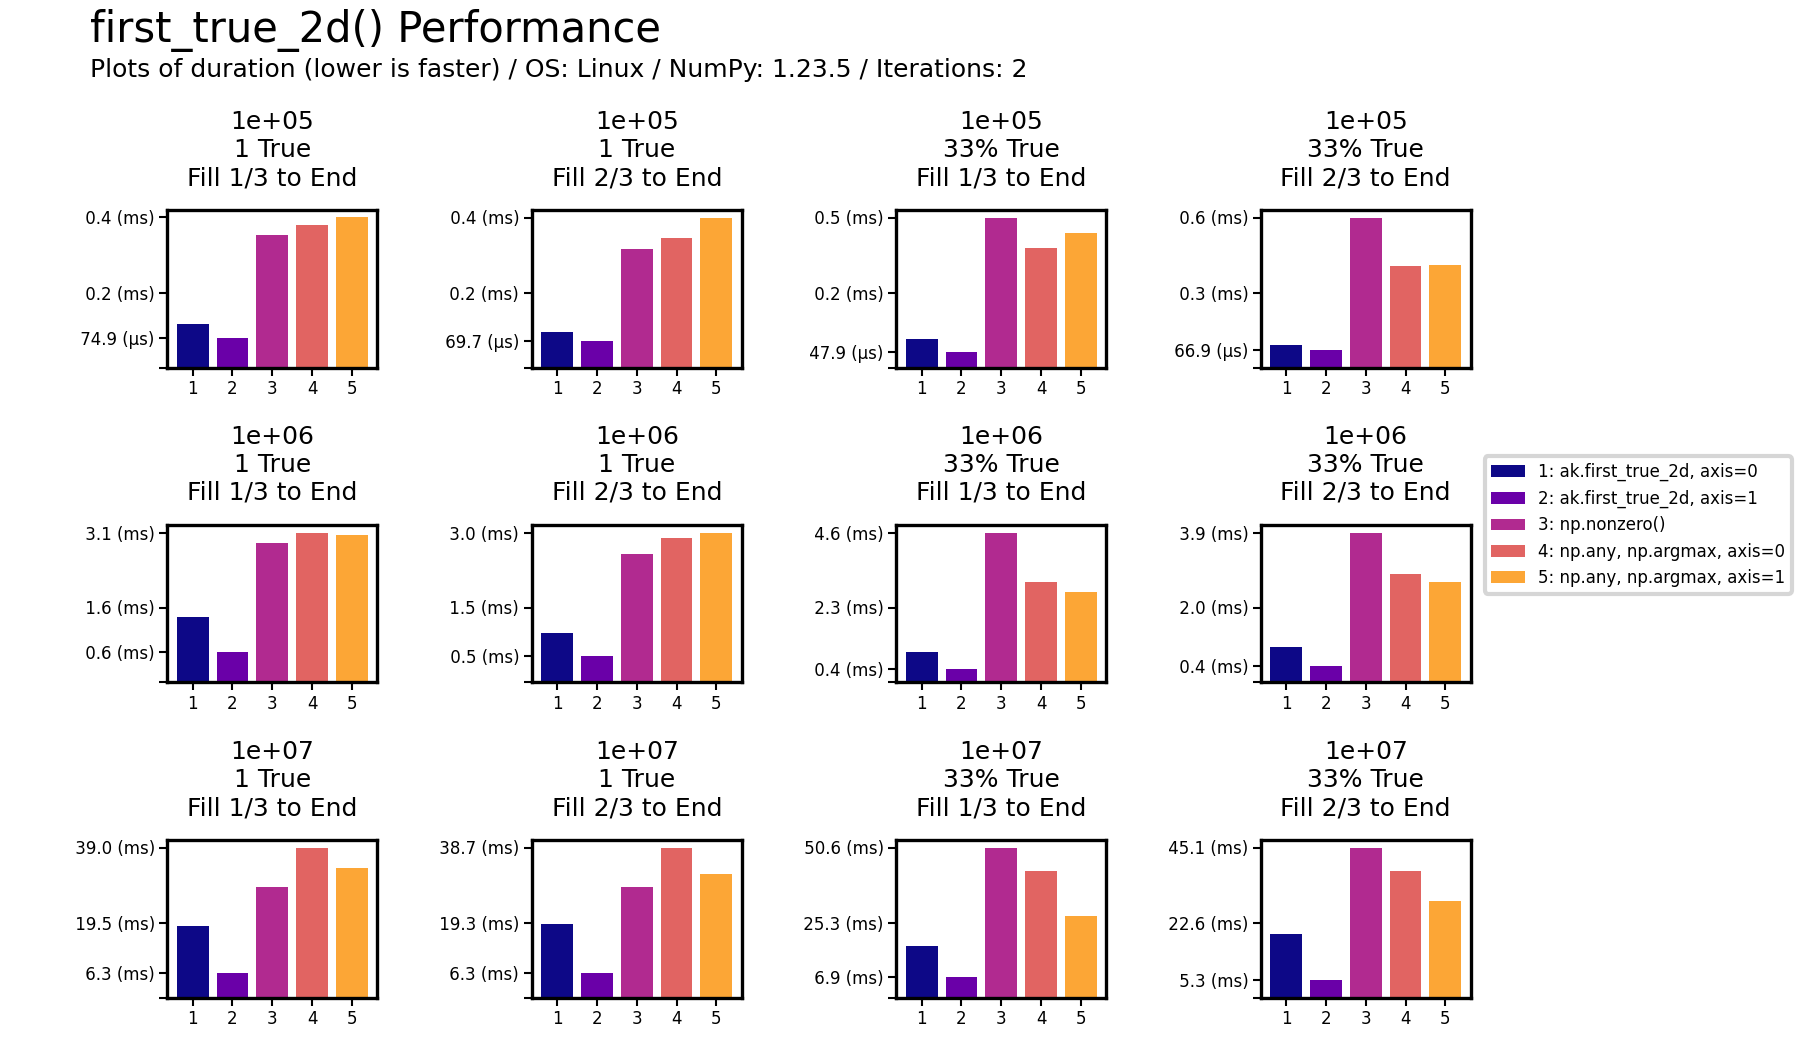
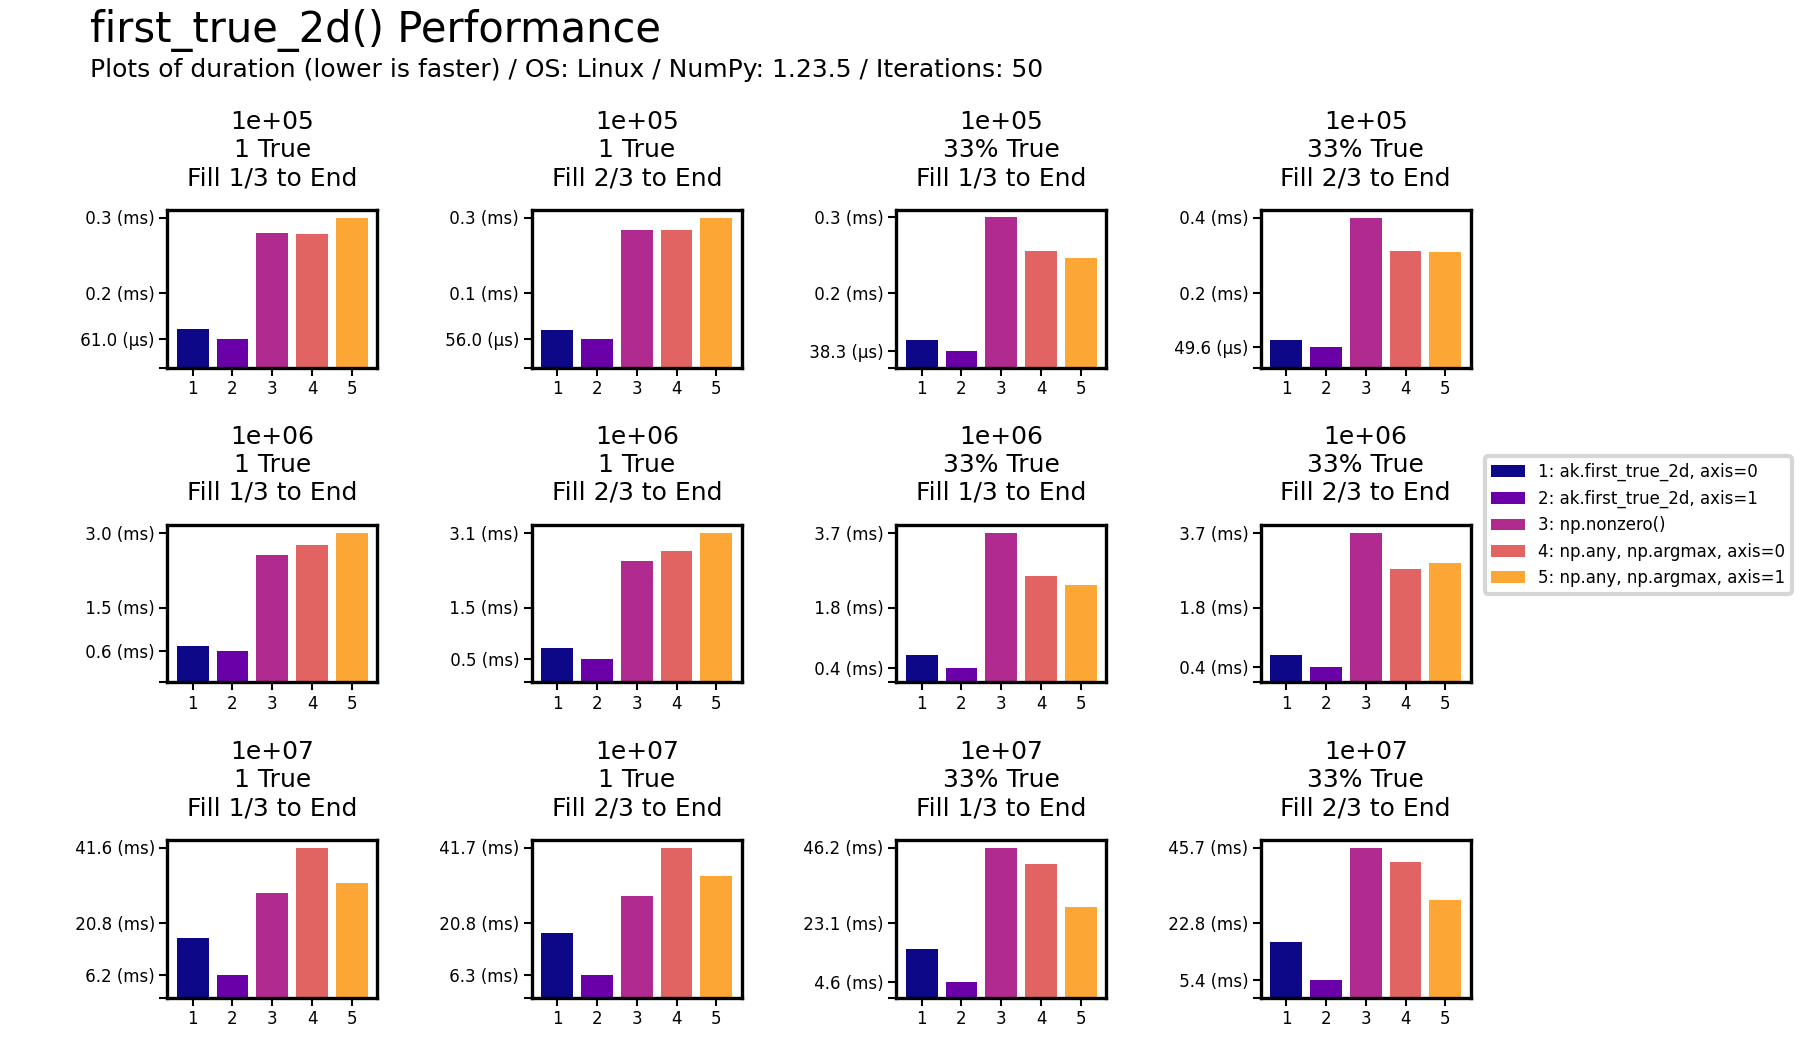
added 2d image, updated slides

diff --git a/doc/plot/first_true_2d.py b/doc/plot/first_true_2d.py
@@ -199,7 +199,7 @@ if __name__ == '__main__':
             processors=CLS_PROCESSOR,
             fp=directory / 'ft2d-fig-0.png',
             title='first_true_2d() Performance',
-            number=2,
+            number=50,
             )
 
 

diff --git a/doc/bnpy-scipy-2023/slides.md b/doc/bnpy-scipy-2023/slides.md
@@ -589,7 +589,7 @@ layout: none
 # I: Reading Native `PyObject`s From Arrays
 
 <div class="absolute top-0px">
-<img src="/fig-1.png" style="height: 550px;" />
+<img src="/ft1d-fig-1.png" style="height: 550px;" />
 </div>
 
 <style>
@@ -625,7 +625,7 @@ layout: none
 # II: Reading Scalar `PyObject`s From Arrays
 
 <div class="absolute top-0px">
-<img src="/fig-2.png" style="height: 550px;" />
+<img src="/ft1d-fig-2.png" style="height: 550px;" />
 </div>
 
 <style>
@@ -659,7 +659,7 @@ layout: none
 # III: Casting Data Pointers to C-Types
 
 <div class="absolute top-0px">
-<img src="/fig-3.png" style="height: 550px;" />
+<img src="/ft1d-fig-3.png" style="height: 550px;" />
 </div>
 
 <style>
@@ -673,7 +673,7 @@ layout: none
 # III: Casting Data Pointers to C-Types
 
 <div class="absolute top-0px">
-<img src="/fig-4.png" style="height: 550px;" />
+<img src="/ft1d-fig-4.png" style="height: 550px;" />
 </div>
 
 <style>
@@ -705,7 +705,7 @@ layout: none
 # IV: Using `NpyIter`
 
 <div class="absolute top-0px">
-<img src="/fig-5.png" style="height: 550px;" />
+<img src="/ft1d-fig-5.png" style="height: 550px;" />
 </div>
 
 <style>
@@ -739,15 +739,12 @@ layout: none
 # V(a): Using C-Array and Pointer Arithmetic
 
 <div class="absolute top-0px">
-<img src="/fig-6.png" style="height: 550px;" />
+<img src="/ft1d-fig-6.png" style="height: 550px;" />
 </div>
 
 <style>
 div {background-color: #666666;}
 </style>
-
-
-
 
 
 ---
@@ -768,14 +765,13 @@ Advance through array with pointer arithmetic, unrolling units of 4
 </Transform>
 
 
-
 ---
 layout: none
 ---
 # V(b): Using C-Array, Pointer Arithmetic, Loop Unrolling
 
 <div class="absolute top-0px">
-<img src="/fig-7.png" style="height: 550px;" />
+<img src="/ft1d-fig-7.png" style="height: 550px;" />
 </div>
 
 <style>
@@ -784,15 +780,27 @@ div {background-color: #666666;}
 
 
 
-
-
 ---
 ---
-# VI: 2D Forced Contiguous C-Order-Array, Pointer Arithmetic, Loop Unrolling
+# `first_true_2d`
 
 <Transform :scale="1.5">
 <v-clicks>
-Only process 1D, Boolean, contiguous arrays
+
+Specialized 1D and 2D functions provides the best performance
+
+Apply the same approch, but C or Fotran order matters
+</v-clicks>
+</Transform>
+
+
+---
+---
+# 2D Forced Contiguous C-Order-Array, Pointer Arithmetic, Loop Unrolling
+
+<Transform :scale="1.5">
+<v-clicks>
+Only process 2D, Boolean, contiguous arrays
 
 Use `PyArray_DATA()` to get C-array
 
@@ -805,10 +813,10 @@ Advance through array with pointer arithmetic, unrolling units of 4
 ---
 layout: none
 ---
-# VI: 2D Forced Contiguous C-Order-Array, Pointer Arithmetic, Loop Unrolling
+# 2D Forced Contiguous C-Order-Array, Pointer Arithmetic, Loop Unrolling
 
 <div class="absolute top-0px">
-<img src="" style="height: 550px;" />
+<img src="/ft2d-fig-0.png" style="height: 550px;" />
 </div>
 
 <style>
@@ -819,7 +827,6 @@ div {background-color: #666666;}
 
 
 ---
-layout: quote
 ---
 # Thanks!
 
@@ -829,6 +836,8 @@ Thanks to Brandt Bucher & Charles Burkland
 Sli.dev slides
 
 Code: https://github.com/flexatone/np-bench
+
+`first_true_1d`, `first_true_2d` packaged: https://pypi.org/project/arraykit
 
 StaticFrame: https://static-frame.dev
 
